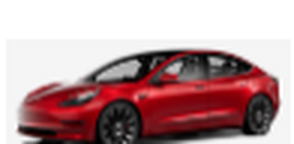
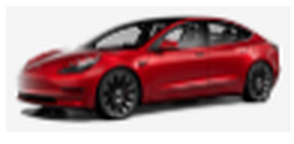
Cupón más claro (etiqueta, código y Copiar) y fotos del Model 3 alineadas

diff --git a/apps/web/src/components/AccionesChollo.tsx b/apps/web/src/components/AccionesChollo.tsx
@@ -3,8 +3,8 @@
 import { useState } from "react";
 import { SITIO } from "@/lib/sitio";
 
-/** Copia el código de descuento al portapapeles (estilo de la ficha oscura). */
-export function CopiarCodigo({ codigo }: { codigo: string }) {
+/** Cupón de descuento: etiqueta «Cupón», el código y «Copiar». Pulsarlo copia el código al portapapeles. */
+export function CopiarCodigo({ codigo, grande = false }: { codigo: string; grande?: boolean }) {
   const [copiado, setCopiado] = useState(false);
   return (
     <button
@@ -13,15 +13,23 @@ export function CopiarCodigo({ codigo }: { codigo: string }) {
         try {
           await navigator.clipboard.writeText(codigo);
           setCopiado(true);
-          setTimeout(() => setCopiado(false), 1500);
+          setTimeout(() => setCopiado(false), 2000);
         } catch {
           /* sin permiso de portapapeles: el código sigue visible */
         }
       }}
-      className="rounded-lg border border-dashed border-ficha-borde px-2.5 py-1 text-sm font-medium text-ficha-texto hover:bg-ficha-chip"
-      aria-label={`Copiar el código ${codigo}`}
+      className={`flex items-center gap-2 rounded-lg border border-dashed border-verde-boton bg-ficha-chip text-ficha-texto hover:bg-ficha-borde ${grande ? "px-3 py-2 text-base" : "px-2.5 py-1.5 text-sm"}`}
+      aria-label={`Copiar el cupón ${codigo}`}
+      title="Copia el cupón de descuento"
     >
-      {copiado ? "¡Copiado!" : codigo}
+      <span className="text-xs font-semibold uppercase tracking-wide text-ficha-suave">Cupón</span>
+      <strong className="font-bold tracking-wide">{codigo}</strong>
+      <span className="flex items-center gap-1 rounded bg-verde-boton px-1.5 py-0.5 text-xs font-bold text-white">
+        <svg viewBox="0 0 24 24" className="size-3.5" fill="none" stroke="currentColor" strokeWidth="2.5" strokeLinecap="round" strokeLinejoin="round" aria-hidden>
+          {copiado ? <path d="M5 13l4 4L19 7" /> : (<><rect x="9" y="9" width="11" height="11" rx="2" /><path d="M5 15V6a2 2 0 0 1 2-2h9" /></>)}
+        </svg>
+        {copiado ? "¡Copiado!" : "Copiar"}
+      </span>
     </button>
   );
 }

diff --git a/apps/web/src/app/chollo/[slug]/page.tsx b/apps/web/src/app/chollo/[slug]/page.tsx
@@ -3,7 +3,7 @@ import Image from "next/image";
 import Link from "next/link";
 import { notFound } from "next/navigation";
 import { aplicarAfiliado, formatoEuros, nombreCategoria, porcentajeAhorro, precioFinal, TIENDAS } from "@chollesla/core";
-import { CompartirFicha } from "@/components/AccionesChollo";
+import { CompartirFicha, CopiarCodigo } from "@/components/AccionesChollo";
 import { HaceTiempo } from "@/components/HaceTiempo";
 import { CHOLLOS, cholloPorSlug, chollosDeCategoria, formatoFecha } from "@/datos/chollos";
 import { Guardar, Temperatura } from "@/components/Interacciones";
@@ -123,10 +123,14 @@ export default async function FichaChollo({ params }: PageProps<"/chollo/[slug]"
             {ahorro > 0 && <span className="rounded-md bg-verde-claro px-2 text-sm font-medium text-verde">-{ahorro} %</span>}
           </div>
           {t.codigo && (
-            <p>
-              Con el código <strong className="rounded bg-verde-claro px-1.5 py-0.5 font-semibold text-verde">{t.codigo}</strong> en{" "}
-              {t.nombre}
-            </p>
+            <div className="flex flex-col gap-1.5">
+              <p>
+                Precio con el cupón de descuento de {t.nombre}. Si la tienda te lo pide al pagar, cópialo y pégalo:
+              </p>
+              <div>
+                <CopiarCodigo codigo={t.codigo} grande />
+              </div>
+            </div>
           )}
           <p className="text-sm text-texto-suave">
             Precio de <HaceTiempo fecha={c.fecha} alternativa={formatoFecha(c.fecha)} /> ({formatoFecha(c.fecha)}); puede variar.
